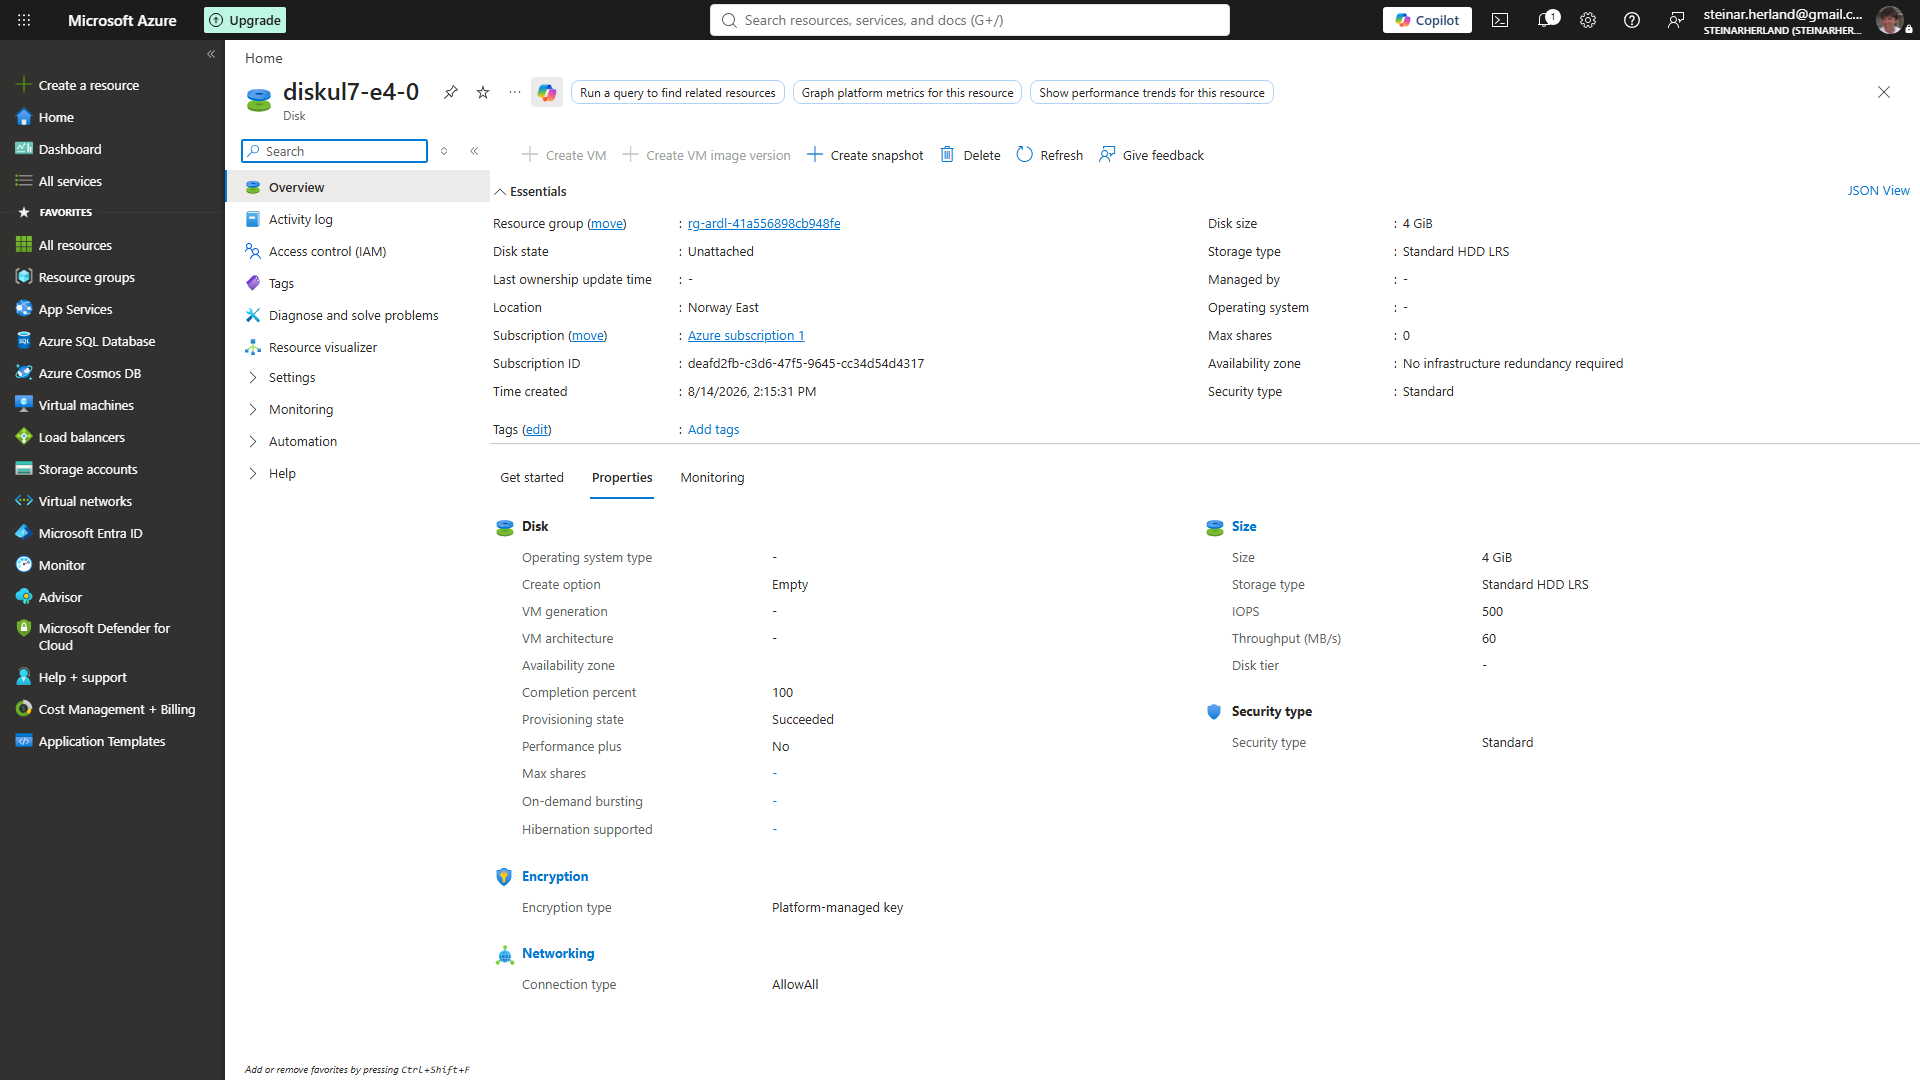
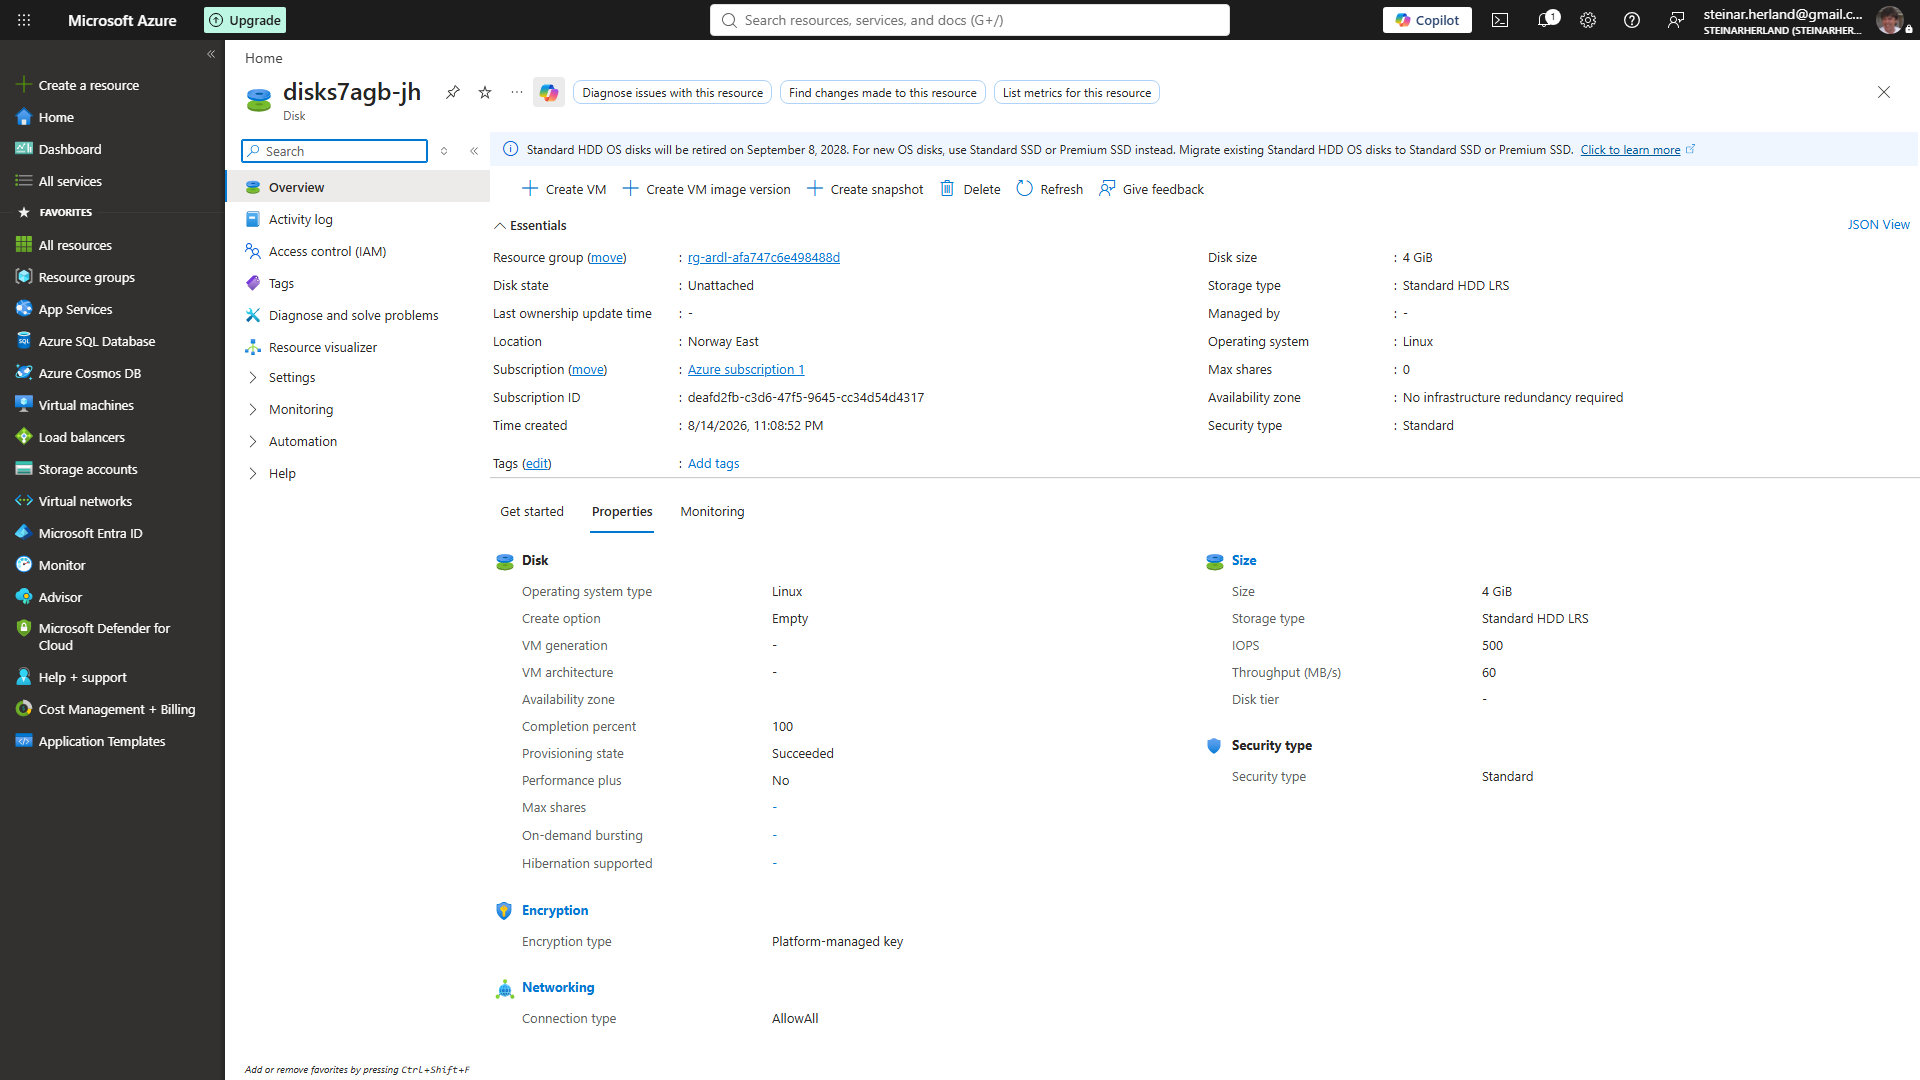
Recapture with richer examples: resolves Disk OS/AppConfig fields, fixes a real extraction bug
Compute/disks (+snapshots prerequisite): added osType: Linux to the
provisioning template (permanent, same SKU/size so no cost-tier impact) —
"Operating system" now matches properties.osType instead of comparing
against a permanently-null value.

AppConfiguration/configurationStores: temporarily flipped the provisioning
SKU to Standard, captured once, reverted back to Free immediately after —
the richer captured output/ files are durable, the config change was not
(this type's cost tier is tied to the separately-fetched pricing dataset,
so a permanent SKU change wasn't made without re-running that fetch).
"Purge protection" now resolves Direct via the plain generic matcher (no
new shortcut code needed, it just never had a non-N/A value to match
before). "Soft-delete" and "Geo-replication" are confirmed still genuinely
non-traceable even at Standard tier — documented, not guessed.

Two things caught along the way:
- Naively blocklisting "Soft-delete" broke a real KeyVault test, since that
  type uses the same label for an actually-traceable property. Fixed with
  an armType-scoped exception in PortalFieldsConsistencyTests (mirroring
  FieldRecipeResolver's existing Pricing-tier pattern) instead of widening
  the type-blind NonTraceableLabels set.
- A genuine EssentialsExtractor bug: Standard tier's "Geo-replication" label
  carries a role="button" tooltip icon (not a literal <a>/<button> tag),
  whose text leaked into the extracted label. The Free-tier-only capture
[…]

diff --git a/src/AzResourceDetailsDownloader/Capture/EssentialsExtractor.cs b/src/AzResourceDetailsDownloader/Capture/EssentialsExtractor.cs
@@ -116,6 +116,15 @@ public static class EssentialsExtractor
             // shape but not the other. Walking the subtree in document order and stopping at the
             // first <a>/<button> handles both, then a trailing dangling "(" (the open paren that
             // preceded the now-excluded link) is stripped as leftover wrapper punctuation.
+            //
+            // Live-observed again (2026-08-14, AppConfiguration Standard tier — never seen before
+            // because every earlier capture of this label was on the Free tier, which renders no
+            // tooltip icon at all): "Geo-replication" carries a `TooltipHost`-wrapped info icon
+            // instead of a plain `<a>`/`<button>` — a non-interactive tag (observed as a `<span>`
+            // via the portal's own dumped source, `FontIcon`) but with `role="button"` set, whose
+            // tooltip text ("Replicas allow for higher availability...") got folded straight into
+            // the label ("Geo-replicationReplicas allow for..."). Tag-name checking alone can't
+            // catch this — stop the walk on ARIA role="button" too, not just the two tag names.
             const labelTextOf = el => {
                 let text = '';
                 let stopped = false;
@@ -125,7 +134,8 @@ public static class EssentialsExtractor
                         if (child.nodeType === Node.TEXT_NODE) {
                             text += child.textContent;
                         } else if (child.nodeType === Node.ELEMENT_NODE) {
-                            if (child.tagName === 'A' || child.tagName === 'BUTTON') {
+                            if (child.tagName === 'A' || child.tagName === 'BUTTON'
+                                || child.getAttribute('role') === 'button') {
                                 stopped = true;
                                 return;
                             }
@@ -182,7 +192,8 @@ public static class EssentialsExtractor
                         if (child.nodeType === Node.TEXT_NODE) {
                             text += child.textContent;
                         } else if (child.nodeType === Node.ELEMENT_NODE) {
-                            if (child.tagName === 'A' || child.tagName === 'BUTTON') {
+                            if (child.tagName === 'A' || child.tagName === 'BUTTON'
+                                || child.getAttribute('role') === 'button') {
                                 stopped = true;
                                 return;
                             }

diff --git a/src/AzResourceDetailsDownloader/Templating/FieldRecipeResolver.cs b/src/AzResourceDetailsDownloader/Templating/FieldRecipeResolver.cs
@@ -116,6 +116,23 @@ public static class FieldRecipeResolver
                 "model.appconfig_pricing_tier_label",
                 "sku.name isn't in the known free/standard/developer/premium table");
         }
+        // AppConfiguration's "Soft-delete" is a pure SKU-tier feature-availability flag — Standard
+        // tier always shows Enabled, Free tier always shows N/A — with no backing property at all
+        // (confirmed live 2026-08-14, the first time this tool ever captured AppConfig at Standard
+        // tier). Must be scoped to this one armType: KeyVault uses the exact same label for a real,
+        // directly-traceable properties.enableSoftDelete boolean, and already resolves correctly
+        // through the ordinary generic/boolean paths below — a blanket NonTraceableLabels entry for
+        // "Soft-delete" would have silently broken that (caught by
+        // TemplateGeneratorTests.Generate_BooleanField_UsesEnabledDisabledTransform_WhenCapturedValueIsEnabled).
+        if (label.Equals("Soft-delete", StringComparison.OrdinalIgnoreCase)
+            && armType.Equals("Microsoft.AppConfiguration/configurationStores", StringComparison.OrdinalIgnoreCase))
+        {
+            return new FieldRecipe(FieldRecipeKind.Unresolved, 0.0, null,
+                "Purely a SKU-tier feature-availability flag on this type (Standard tier always shows " +
+                "Enabled, Free tier always shows N/A) — no backing property at all, confirmed live " +
+                "2026-08-14. Distinct from KeyVault's same-named label, which really is a direct " +
+                "properties.enableSoftDelete passthrough.");
+        }
         if (label.Equals("Location", StringComparison.OrdinalIgnoreCase))
         {
             return ResolveLocationShortcut(value, root);

diff --git a/src/AzResourceDetailsDownloader/Templating/PortalFieldKnowledge.cs b/src/AzResourceDetailsDownloader/Templating/PortalFieldKnowledge.cs
@@ -85,6 +85,7 @@ public static class PortalFieldKnowledge
         "Node pools", "DNS servers", "Subnets", "MQTT broker", "DNS Name", "MCP Endpoint",
         "SF Explorer", "Publisher :: Offer :: SKU", "Scope (In-tenant)", "Scope (Cross-tenant)",
         "Replication", "Account kind", "Definition", "Runs last 24 hours", "Workflow Type",
+        "Geo-replication",
 
         // Look timestamp-shaped but aren't traceable — confirmed by grepping the sibling data.json
         // for any creation-adjacent field on each resource type and finding none; a portal-computed
@@ -138,6 +139,10 @@ public static class PortalFieldKnowledge
         ["Storage encryption"] = "identity.type at the document root (NOT under properties.*, so not " +
             "template-addressable even once traced) — \"UserAssigned\" means customer-managed key, " +
             "anything else means service-managed (confirmed live on DocumentDB/mongoClusters)",
+        ["Geo-replication"] = "AppConfiguration/configurationStores: the replica count comes from a " +
+            "separate replicas-list API call (e.replicas?.length in the portal's own source), not this " +
+            "type's resource GET body at all — genuinely a different-API-surface case, confirmed live " +
+            "2026-08-14 on a Standard-tier store (the first time this tool ever captured one).",
         ["Purge protection"] = "properties.enablePurgeProtection, a real boolean — but only rendered " +
             "at all on a SKU tier where the feature exists, so an unresolved capture may just mean " +
             "the SKU didn't have the property to show (confirmed live on AppConfiguration/configurationStores)",

diff --git a/tests/AzResourceDetailsDownloader.Tests/PortalFieldsConsistencyTests.cs b/tests/AzResourceDetailsDownloader.Tests/PortalFieldsConsistencyTests.cs
@@ -51,6 +51,7 @@ public class PortalFieldsConsistencyTests
         var rawDataJson = File.ReadAllText(dataJsonPath);
         using var dataDoc = JsonDocument.Parse(rawDataJson);
         var normalizedDataJson = PortalFieldKnowledge.Normalize(rawDataJson);
+        var armType = dataDoc.RootElement.TryGetProperty("type", out var t) ? t.GetString() ?? "" : "";
 
         var problems = new List<string>();
 
@@ -62,6 +63,19 @@ public class PortalFieldsConsistencyTests
                 {
                     problems.Add($"{f.Label} = \"{f.Value}\" (expected one of: {string.Join(" / ", allowedValues)})");
                 }
+                continue;
+            }
+
+            // Type-scoped exceptions live here, not in the (type-blind) NonTraceableLabels set below,
+            // for the same reason FieldRecipeResolver has a dedicated armType-aware dispatch for
+            // these: the label is shared with another type where it genuinely IS traceable, so a
+            // blanket skip would silently stop checking that other type too (caught live 2026-08-14 —
+            // adding "Soft-delete" to NonTraceableLabels to cover AppConfiguration's SKU-tier-gated,
+            // no-backing-property case broke this test's KeyVault coverage, where the same label is a
+            // real properties.enableSoftDelete passthrough).
+            if (f.Label.Equals("Soft-delete", StringComparison.OrdinalIgnoreCase)
+                && armType.Equals("Microsoft.AppConfiguration/configurationStores", StringComparison.OrdinalIgnoreCase))
+            {
                 continue;
             }
 

diff --git a/AGENT.md b/AGENT.md
@@ -462,6 +462,58 @@ similarity artifacts, not data problems), and four leftovers actually worth fini
 All four verified `ShortcutVerified` against the real committed corpus, 225 tests still green, no
 guessed text anywhere in any of it.
 
+## Fifth pass, same day — recapturing with richer examples, and a real extraction bug it uncovered
+
+Asked "any fields not fully resolved?" a second time, three buckets remained: different-API-surface
+(unchanged, needs a bigger pipeline feature), `NeedsReview` naming-similarity artifacts (already
+correct, just low-confidence — left alone, a shared-heuristic change with corpus-wide risk), and
+genuinely-non-traceable-in-*this*-capture-only fields, where the resolver logic was already correct
+but the committed example resource had nothing real to show (an unattached blank data disk, a
+Free-tier AppConfig store). That third bucket is fixable with zero code changes — just recapture with
+a resource actually configured to exercise the field — but it's a real decision, not a free action:
+it changes the *committed reference example* for that type, and (for AppConfig) means temporarily
+provisioning at a paid tier.
+
+- **Compute/disks — permanent, low-risk config change**: added `"osType": "Linux"` to both the disk
+  type's own `requestBody.properties` and the `Microsoft.Compute/snapshots` prerequisite disk's (same
+  SKU/size, so no cost-tier impact) in `config/resource-types.json`. Recaptured both types —
+  "Operating system" now resolves to `properties.ostype` = "Linux" (`NeedsReview` confidence, same
+  low-name-similarity story as elsewhere, but a real match now instead of 0 candidates against a null
+  value).
+- **AppConfiguration — temporary switch, not a permanent default change**: this one's `cost.tier` in
+  `resource-types.json` is "Free" specifically because Standard-tier pricing would need the sourced
+  pricing-fetch script re-run to stay accurate (a separate, bigger task) — not something to casually
+  invalidate just to enrich one capture. Temporarily flipped `requestBody.sku.name` to `"standard"`,
+  ran one real capture, reverted the config back to `"free"` immediately after. The richer capture is
+  **durable** (it's the committed `output/` files, independent of the config that produced them) but
+  the config itself is **not** — a future full recapture of this type reverts to Free tier and these
+  fields go back to genuinely-N/A, which is correct, not a regression.
+  - "Purge protection" now resolves `Direct`, confidence 1.0, via the ordinary generic matcher — no
+    new shortcut code needed, it was always capable of this, just never had a non-N/A value to match
+    against before.
+  - "Soft-delete" and "Geo-replication" turned out to still be genuinely non-traceable even at
+    Standard tier (Soft-delete is a pure SKU-tier feature flag with no backing property at all;
+    Geo-replication's count comes from a separate replicas-list API, not this type's GET body) — now
+    correctly documented instead of guessed.
+  - **Live-caught regression, worth internalizing**: naively adding "Soft-delete" to the blanket
+    `NonTraceableLabels` set broke a real, previously-passing test
+    (`TemplateGeneratorTests.Generate_BooleanField_UsesEnabledDisabledTransform_WhenCapturedValueIsEnabled`)
+    — KeyVault uses the exact same label for a real `properties.enableSoftDelete` passthrough, and a
+    blanket label-keyed set can't distinguish the two types. Fixed by giving `PortalFieldsConsistencyTests`
+    the same kind of `armType`-scoped exception `FieldRecipeResolver` already had for "Pricing tier",
+    rather than broadening `NonTraceableLabels` — the general lesson being that *any* new
+    label-classification entry needs an explicit "does another type use this same label for something
+    real?" check before it goes in a type-blind table, not just "does it fix the case in front of me."
+  - **Also live-caught, purely as a side effect of finally seeing Standard tier for the first time**:
+    a genuine `EssentialsExtractor` label-extraction bug, unrelated to field resolution — "Geo-replication"
+    carries a `TooltipHost`-wrapped info icon (a `role="button"` element that isn't a literal `<a>`/
+    `<button>` tag) whose tooltip text leaked straight into the label
+    (`"Geo-replicationReplicas allow for higher availability..."`). The label-walker's stop condition
+    was tag-name-only; fixed by also stopping at `role="button"`, in both the grid and PropertyField
+    variants. A reminder that a "richer" capture doesn't just resolve fields — Free-tier-only capture
+    of this type had never exercised this DOM shape at all, so this bug had been latent, uncaught,
+    since whenever the tooltip icon was added.
+
 ## The operator's real identity can leak into output/ — two distinct paths, both now fixed
 
 Live-found (2026-08-13) across 34+ already-committed `data.json` files: ARM auto-stamps the

diff --git a/output/developer_tools/microsoft_appconfiguration_configurationstores/rendered-preview.md b/output/developer_tools/microsoft_appconfiguration_configurationstores/rendered-preview.md
@@ -1,4 +1,4 @@
-# appcskiph6ald
+# appcs1w6r-t-z
 
 | Property | Value |
 |---|---|
@@ -7,9 +7,9 @@
 | **Location** | Norway East |
 <!-- "Subscription" omitted: tenant/subscription identity, already in frontmatter -->
 <!-- "Subscription ID" omitted: tenant/subscription identity, already in frontmatter -->
-| **Endpoint** | https://appcskiph6ald.azconfig.io |
-| **Pricing tier** | Free (Click to upgrade) |
-| **Soft-delete** | <!-- TODO (Unresolved): No value match found anywhere in this capture — investigate before adding to any known table (could be a genuine EssentialsExtractor/redaction bug, a portal empty-state placeholder like "---", or a new different-API-surface/composite case). --> N/A |
-| **Purge protection** | <!-- TODO (Unresolved): properties.enablePurgeProtection, a real boolean — but only rendered at all on a SKU tier where the feature exists, so an unresolved capture may just mean the SKU didn't have the property to show (confirmed live on AppConfiguration/configurationStores) --> N/A |
-| **Geo-replication** | <!-- TODO (Unresolved): No value match found anywhere in this capture — investigate before adding to any known table (could be a genuine EssentialsExtractor/redaction bug, a portal empty-state placeholder like "---", or a new different-API-surface/composite case). --> N/A |
+| **Endpoint** | https://appcs1w6r-t-z.azconfig.io |
+| **Pricing tier** | Standard (Click to upgrade) |
+| **Soft-delete** | <!-- TODO (Unresolved): Purely a SKU-tier feature-availability flag on this type (Standard tier always shows Enabled, Free tier always shows N/A) — no backing property at all, confirmed live 2026-08-14. Distinct from KeyVault's same-named label, which really is a direct properties.enableSoftDelete passthrough. --> Enabled |
+| **Purge protection** | Disabled |
+| **Geo-replication** | <!-- TODO (Unresolved): AppConfiguration/configurationStores: the replica count comes from a separate replicas-list API call (e.replicas?.length in the portal's own source), not this type's resource GET body at all — genuinely a different-API-surface case, confirmed live 2026-08-14 on a Standard-tier store (the first time this tool ever captured one). --> 0 replica(s) |
 | **Telemetry** | Disabled |

diff --git a/output/compute_and_web/microsoft_compute_disks/rendered-preview.md b/output/compute_and_web/microsoft_compute_disks/rendered-preview.md
@@ -1,4 +1,4 @@
-# diskul7-e4-0
+# disks7agb-jh
 
 | Property | Value |
 |---|---|
@@ -8,11 +8,11 @@
 | **Location** | Norway East |
 <!-- "Subscription" omitted: tenant/subscription identity, already in frontmatter -->
 <!-- "Subscription ID" omitted: tenant/subscription identity, already in frontmatter -->
-| **Time created** | August 14, 2026 at 12:15:31 UTC |
+| **Time created** | August 14, 2026 at 21:08:52 UTC |
 | **Disk size** | <!-- TODO (Unresolved): No value match found anywhere in this capture — investigate before adding to any known table (could be a genuine EssentialsExtractor/redaction bug, a portal empty-state placeholder like "---", or a new different-API-surface/composite case). --> 4 GiB |
 | **Storage type** | Standard HDD LRS |
 | **Managed by** | <!-- TODO (Unresolved): properties.managedBy (a VM resource ID, last path segment shown) when set — genuinely composite (extracts + link-wraps a name from an ID, like the Resource Group shortcut does), correctly non-traceable as a plain value match (confirmed live on Compute/disks) --> - |
-| **Operating system** | <!-- TODO (Unresolved): No value match found anywhere in this capture — investigate before adding to any known table (could be a genuine EssentialsExtractor/redaction bug, a portal empty-state placeholder like "---", or a new different-API-surface/composite case). --> - |
+| **Operating system** | <!-- TODO (NeedsReview): Value matches (exact value match) but the property name is only weakly related to the label (similarity 0.00) — verify by hand before trusting. --> Linux |
 | **Max shares** | <!-- TODO (Unresolved): properties.maxShares, a real (usually-zero) number — direct passthrough, only renders as "0" because no captured disk has sharing enabled (confirmed live on Compute/disks) --> 0 |
 | **Availability zone** | <!-- TODO (Unresolved): the root-level `zones` array (NOT under properties.*, so not template-addressable even once traced), joined/sorted, with a "No infrastructure redundancy required" fallback when empty (confirmed live on Compute/disks) --> No infrastructure redundancy required |
 | **Security type** | Standard |

diff --git a/output/compute_and_web/microsoft_compute_snapshots/rendered-preview.md b/output/compute_and_web/microsoft_compute_snapshots/rendered-preview.md
@@ -1,4 +1,4 @@
-# snapshnmog8v
+# snap48glwc3z
 
 | Property | Value |
 |---|---|
@@ -6,9 +6,9 @@
 | **Location** | Norway East |
 <!-- "Subscription" omitted: tenant/subscription identity, already in frontmatter -->
 <!-- "Subscription ID" omitted: tenant/subscription identity, already in frontmatter -->
-| **Created** | August 14, 2026 at 10:32:53 UTC |
+| **Created** | August 14, 2026 at 21:08:55 UTC |
 | **Storage type** | Standard HDD LRS |
-| **Source** | <!-- TODO (Unresolved): No value match found anywhere in this capture — investigate before adding to any known table (could be a genuine EssentialsExtractor/redaction bug, a portal empty-state placeholder like "---", or a new different-API-surface/composite case). --> diskflr4a67c |
+| **Source** | <!-- TODO (Unresolved): No value match found anywhere in this capture — investigate before adding to any known table (could be a genuine EssentialsExtractor/redaction bug, a portal empty-state placeholder like "---", or a new different-API-surface/composite case). --> diskmrvds8oj |
 | **Size** | <!-- TODO (Unresolved): composite/derived — no single backing property (see NonTraceableLabels comments) --> 4 GiB |
 | **Encryption** | <!-- TODO (Unresolved): composite/derived — no single backing property (see NonTraceableLabels comments) --> Platform-managed key |
 | **Snapshot access state** | <!-- TODO (Unresolved): composite/derived — no single backing property (see NonTraceableLabels comments) --> Available |
